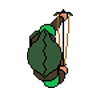
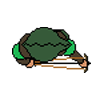
rotated archer, fixed up level js spacing

Changed region(s): [[0.12, 0.09, 0.93, 0.9]]

diff --git a/scripts/level.js b/scripts/level.js
@@ -71,7 +71,7 @@ function preload ()
     this.load.audio('launchArrow', ['audio/launch.mp3']);
     this.load.audio('impactArrow', ['audio/impact.mp3']);
     //PLAYER
-    this.load.image('player', 'images/link.png');
+    this.load.image('player', 'images/archer.png');
     this.load.image('arrowTR', 'images/arrowTR.png');
     this.load.image('arrowTL', 'images/arrowTL.png');
     this.load.image('arrowBR', 'images/arrowBR.png');
@@ -427,15 +427,13 @@ function create ()
 
                 centerButton.on('pointerdown', function(pointer)
                     {
-                       
-                        launchArrow.play();
-                        impactArrow.play();
 
                         if (magicCoins >= 10) {
                             magicShootTL(arrows);
                             magicShootTR(arrows);
                             magicShootBL(arrows);
                             magicShootBR(arrows);
+                            playShootSound();
                             magicCoins -= 10;
                         }
                     console.log("CenterButtonPressed");
@@ -459,8 +457,7 @@ function create ()
                 topLeftButton.on('pointerdown', function(pointer)
                     {
                         shootTL(arrows);
-                        launchArrow.play();
-                        impactArrow.play();
+                        
                        console.log("topLeftButtonPressed");
                     });
 
@@ -482,8 +479,7 @@ function create ()
                 topRightButton.on('pointerdown', function(pointer)
                     {
                         shootTR(arrows);
-                        launchArrow.play();
-                        impactArrow.play();
+                        
                        console.log("topRightButtonPressed");
                     });   
 
@@ -505,8 +501,7 @@ function create ()
                 botLeftButton.on('pointerdown', function(pointer)
                     {
                         shootBL(arrows);
-                        launchArrow.play();
-                        impactArrow.play();
+                        
                        console.log("botLeftButtonPressed");
                     });    
 
@@ -528,8 +523,7 @@ function create ()
                 botRightButton.on('pointerdown', function(pointer)
                     {
                         shootBR(arrows);
-                        launchArrow.play();
-                        impactArrow.play();
+                        
                        console.log("botRightButtonPressed");
                     }); 
 
@@ -553,13 +547,18 @@ function create ()
     resize();
 }
 
+//SOUND FUNCTIONS
+function playShootSound(){
+    launchArrow.play();
+    impactArrow.play();
+}
 
 //-------------------------- ARROWS --------------------------------
 function shootTR(arrows){
     if (!arrowTRActive){
         //creates sprite via group
         arrowTR = arrows.create(450, 350, 'arrowTR');
-    
+        playShootSound();
         arrowTRActive = true;
     }    
 }
@@ -567,7 +566,7 @@ function shootTR(arrows){
 function shootTL(arrows){
     if (!arrowTLActive){
         arrowTL = arrows.create(350, 350, 'arrowTL');
-        
+        playShootSound();
         arrowTLActive = true;
     }
 }
@@ -575,7 +574,7 @@ function shootTL(arrows){
 function shootBR(arrows){
     if (!arrowBRActive){
         arrowBR = arrows.create(450, 450, 'arrowBR');
-        
+        playShootSound();
         arrowBRActive = true;
     }
 }
@@ -583,7 +582,7 @@ function shootBR(arrows){
 function shootBL(arrows){
     if (!arrowBLActive){
         arrowBL = arrows.create(350, 450, 'arrowBL');
-        
+        playShootSound();
         arrowBLActive = true;
     }
 }
